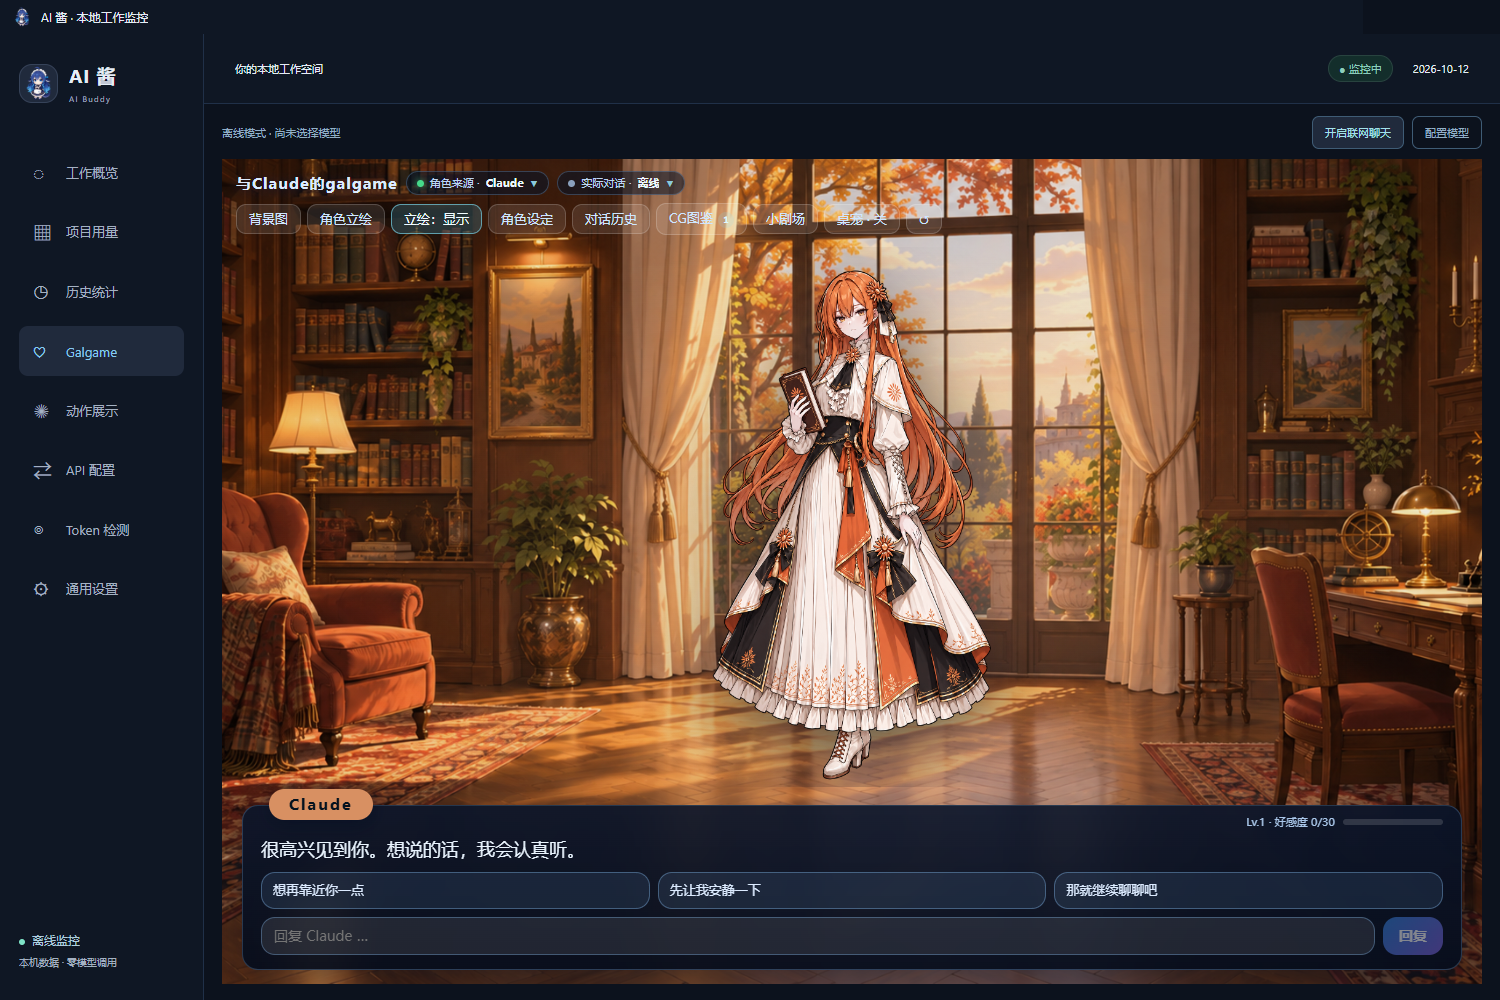
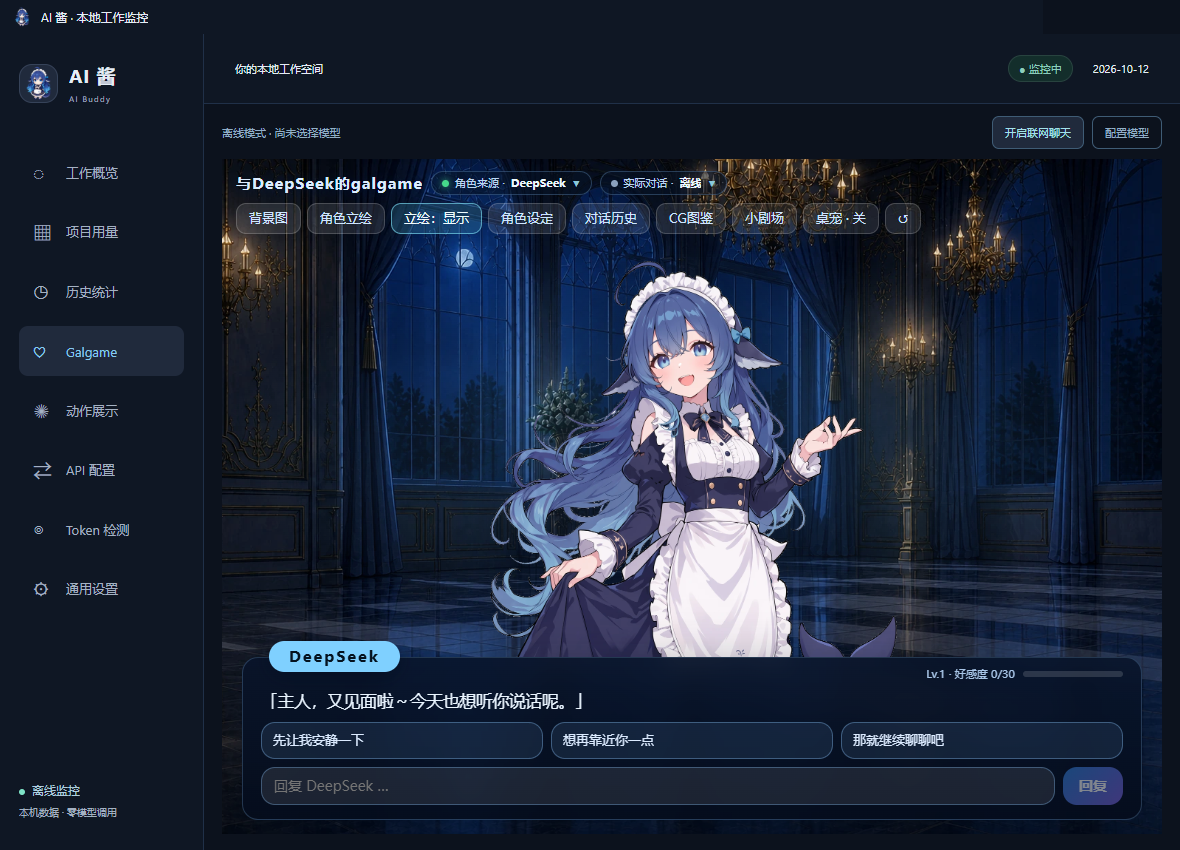
Release AI Buddy 1.7.2 with closer Galgame portraits

diff --git a/src/adapted/character-portrait.ts b/src/adapted/character-portrait.ts
@@ -3,7 +3,7 @@ import {CHARACTER_BOUNDS} from '../character-bounds.generated.mjs'
 
 // Fit the visible silhouette rather than the variable transparent padding.
 // Source PNGs remain untouched; a small transparent guard preserves antialiasing.
-export function CharacterPortrait({src,spriteKey,alt,className='',onError}:any){
+export function CharacterPortrait({src,spriteKey,alt,className='',align='bottom',onError}:any){
  const canvas=useRef<HTMLCanvasElement>(null),bounds=CHARACTER_BOUNDS[spriteKey]
  useLayoutEffect(()=>{
   if(!bounds||!canvas.current)return
@@ -16,14 +16,14 @@ export function CharacterPortrait({src,spriteKey,alt,className='',onError}:any){
    node.width=Math.max(1,Math.round(box.width*dpr));node.height=Math.max(1,Math.round(box.height*dpr))
    const [l,t,r,b]=bounds.visibleBounds,guard=5,x=Math.max(0,l-guard),y=Math.max(0,t-guard)
    const w=Math.min(image.width,r+guard)-x,h=Math.min(image.height,b+guard)-y
-   const scale=Math.min(node.width/w,node.height/h)*.97,dx=(node.width-w*scale)/2,dy=node.height-h*scale
+   const scale=Math.min(node.width/w,node.height/h)*.97,dx=(node.width-w*scale)/2,dy=align==='top'?0:node.height-h*scale
    const ctx=node.getContext('2d');ctx?.clearRect(0,0,node.width,node.height);ctx?.drawImage(image,x,y,w,h,dx,dy,w*scale,h*scale)
    node.dataset.ready='true';node.dataset.bounds=JSON.stringify({x:dx/dpr,y:dy/dpr,width:w*scale/dpr,height:h*scale/dpr})
   }
   image.onload=draw;image.onerror=()=>onError?.();image.src=src
   const observer=new ResizeObserver(draw);observer.observe(node)
   return()=>{closed=true;observer.disconnect();image.onload=null;image.onerror=null}
- },[src,spriteKey])
+ },[src,spriteKey,align])
  return bounds?React.createElement('canvas',{key:src,ref:canvas,role:'img','aria-label':alt,className:className+' whg-character-canvas','data-sprite':spriteKey,style:{width:'100%',height:'100%',display:'block'}}):React.createElement('img',{key:src,src,alt,className,draggable:false,onError})
 }
 

diff --git a/src/dashboard.css b/src/dashboard.css
@@ -92,6 +92,12 @@
 .galgame-page .whg-root-tab .whg-stage{display:flex;padding:6px;overflow:hidden}
 .galgame-page .whg-root-tab .whg-sprite-wrap{height:100%;width:100%;margin:0;transform:none}
 .galgame-page .whg-root-tab .whg-sprite{height:100%;width:100%;max-width:100%;object-fit:contain;object-position:center bottom}
+/* Single-character close framing: keep the head below the toolbar and let the
+   lower body continue behind the dialogue. The picker and ensemble keep their
+   full-figure framing. Width still constrains wide/custom silhouettes. */
+.galgame-page .whg-root-tab .whg-stage:has(>.whg-sprite-wrap){overflow:clip;overflow-clip-margin:24px;z-index:1}
+.galgame-page .whg-root-tab .whg-stage>.whg-sprite-wrap{position:absolute;top:12px;left:12px;width:calc(100% - 24px);height:190%;max-width:none;align-items:flex-start;pointer-events:none}
+.galgame-page .whg-root-tab .whg-sprite-wrap>.whg-sprite{object-position:center top}
 .galgame-page .whg-root-tab .whg-cast{padding:6px 2% 22px;gap:2%}
 .galgame-page .whg-root-tab .whg-cast-slot,.galgame-page .whg-root-tab .whg-cast-slot[data-lead=true]{display:flex;flex:1;min-width:0;max-width:32%;height:100%;transform:none}
 .galgame-page .whg-root-tab .whg-cast-slot[data-overflow=true]{display:flex}

diff --git a/src/adapted/galgame-client.ts b/src/adapted/galgame-client.ts
@@ -3040,6 +3040,7 @@ function App(props: { useSessions: any; variant?: string; sessionId?: string; hi
         className: 'whg-sprite' + (s.portrait ? ' whg-sprite-portrait' : '') + (customSprite ? ' whg-sprite-custom' : ''),
         src,
         spriteKey: customSprite || emoKey ? null : s.sprite,
+        align: 'top',
         alt: s.name,
         draggable: false,
         onError: () => { setImgFail(true) },

diff --git a/docs/VALIDATION-1.7.2.md b/docs/VALIDATION-1.7.2.md
@@ -1,0 +1,36 @@
+# AI Buddy 1.7.2 · Galgame close portrait
+
+2026-10-12, Windows x64. The user's reference calls for a larger single-character portrait, with the face and upper body prominent and the lower body behind the dialogue.
+
+## Change
+
+The single-character presentation uses a top-aligned portrait box at 190% of the available stage height. Width limits preserve broad silhouettes. The stage clips the part below the dialogue boundary so feet cannot appear beneath the panel. Existing artwork is unchanged. Portrait pickers and multi-character scenes retain their full-figure framing.
+
+## Fresh verification
+
+- 212 application tests passed, zero failures.
+- Actual Electron: 900, 1180, 1600 and 1920 logical pixel widths at 100%, 125% and 150% display scale. 44 candidate cases; all eleven characters checked at 1180/100%.
+- Four baseline captures from 1.7.1 retained for comparison. Candidate captures inspected for head/face visibility, gestures, dialogue overlap and clipping. This is a technical visual review; user visual acceptance remains pending.
+- Background, portrait and character pickers: viewport containment, Escape dismissal and focus return; ordinary/Ctrl wheel leave page zoom at 1.
+- CG background auto-hide, manual show, switching between independent character backgrounds and galleries, custom portrait upload and full-image picker checked with isolated saved-image fixtures.
+- Eight existing DeepSeek expression images rendered and inspected in the actual presentation box. This checks presentation only, not a new online emotion-classification request.
+- Three-person scene including a custom portrait checked at all four widths.
+- Navigation, fifteen action entries, preference reload, branded direct startup, single instance and restart verified. No paid model or image request.
+
+## Evidence and scope
+
+`local/buddy-172/release-qa.json` records hashes and paths to the actual native UI, controls, multicast, branding and unit reports. Final passing controls report: `controls-verified/result.json`. Earlier incomplete controls runs are retained as harness-debugging records and are not passing evidence.
+
+Only three renderer sources differ from the verified 1.7.1 baseline: `character-portrait.ts`, `galgame-client.ts` and `dashboard.css`. Build changes are restricted to dashboard CSS/JS/map and version/runtime metadata. All 280 other build files, including artwork, videos, main process, monitoring worker and preload, match 1.7.1 byte for byte. Backend and desktop-pet deep verification from 1.7.1 is historical evidence, not a new full backend test.
+
+Local release requires the previous build/runtime ZIP, archive/source hash verification, restored startup, latest profile backup, post-switch settings and asset checks, animation playback and single-instance verification. The authoritative completed release receipt is recorded in `local/current-build.json`.
+
+## Completed local release
+
+Released through the original entry on 2026-10-12. Receipt: `local/releases/1.7.2-2026-10-12T17-01-33-882Z/result.json` (`ok: true`). All eighteen logical pet actions, actual gallery frame progression, repeated launch/single instance, original settings and CG hashes, and existing usage-ledger prefixes passed. The original `local/data-v003` is retained and the application is open on Galgame.
+
[1 lines of base64/hex data omitted]
+
+Two earlier release attempts are retained: one restore smoke check sampled before video frames advanced; one post-switch five-second manual action check expired and automatically rolled the application and configuration back. The verification scripts now wait for actual frame advancement with a bounded timeout and keep manual playback alive longer than that timeout. The final release passed without relaxing action identity, renderer or frame-count checks. No application backend changes were introduced for these harness fixes.
+
+The original local update did not publish to GitHub. The subsequent v1.7.2 distribution pass synchronizes package metadata, README download links, source-build version checks and independent-profile screenshots. Its source tests, portable ZIP hash verification, extracted native startup and GitHub asset digests are recorded separately; they do not represent additional paid chat or image-generation tests.

diff --git a/README.en.md b/README.en.md
@@ -1,5 +1,7 @@
 # AI Buddy · AI 酱
 
+**Current release: [v1.7.2](https://github.com/lXiaoSel1/ai-buddy/releases/tag/v1.7.2)**
+
 **A record of your AI work. A companion on your desktop.**
 
 [简体中文](README.md) · English
@@ -12,7 +14,7 @@ The Galgame engine and interface are adapted from **[JAdpp/dsh-whale-galgame](ht
 
 ## Download
 
-Download `AI-Buddy-1.7.1-Windows-x64.zip` from [Releases](https://github.com/lXiaoSel1/ai-buddy/releases), extract the complete folder to a writable location, and run **AI Buddy.vbs**. **AI Buddy.cmd** and the versioned **AI Buddy.exe** are alternative launchers.
+Download `AI-Buddy-1.7.2-Windows-x64.zip` from [Releases](https://github.com/lXiaoSel1/ai-buddy/releases), extract the complete folder to a writable location, and run **AI Buddy.vbs**. **AI Buddy.cmd** and the versioned **AI Buddy.exe** are alternative launchers.
 
 - Windows 10/11 x64; portable ZIP, no installer in this release.
 - Electron is bundled. Node.js, Python and image-generation tools are not required to run the app.
@@ -56,6 +58,17 @@ Each character owns their levels, conversation history, background, CG gallery, 
 
 CG backgrounds automatically hide the portrait to prevent duplicate characters. Use the toolbar to show/hide it manually or return to automatic behavior. Switching characters restores that character’s background. Right-click a CG to move it to the recycle bin; undo and restore do not generate another image.
 
+### Starting Theater
+
+1. Save and activate a chat connection under **API configuration → Chat API**.
+2. Open **Galgame** and enable online chat. This switch resets to off after restart.
+3. Click **Theater**, enter an optional topic, then click **Start play**. An explicit topic is useful when no recent activity is available; the local app uses available activity rather than automatically browsing the web.
+4. Advance with **Continue**, then select a choice or type a reply when prompted. Past scenes are under **Dialogue history → Theater**.
+
+Theater calls the selected chat model. Wait for active chat to finish or close the current scene before starting another. The dialog shows an active cooldown; this version does not expose a cooldown setting. CG group pictures use the separate image connection and are not required to start a scene.
+
+Version 1.7.2 gives single-character scenes a closer portrait framing: the face and upper body are larger, with the lower body behind the dialogue. Multi-character scenes and portrait pickers retain full-figure views.
+
 ![Galgame](docs/screenshots/galgame-en.png)
 ![CG background without a duplicate portrait](docs/screenshots/cg-background.png)
 
@@ -93,7 +106,7 @@ Local monitoring is read-only, sends no model requests and does not modify the m
 
 See [BUILD.md](docs/BUILD.md) for source builds. Node.js 24 is needed for development; runtime artwork and animations can be extracted from the matching release ZIP.
 
-See the [1.7.1 validation record](docs/VALIDATION-1.7.1.md) for tested behavior and review boundaries.
+See the [1.7.2 validation record](docs/VALIDATION-1.7.2.md) for the portrait and release checks. Original WebM and theme verification remains in the [1.7.1 record](docs/VALIDATION-1.7.1.md).
 
 Special thanks to [JAdpp/dsh-whale-galgame](https://github.com/JAdpp/dsh-whale-galgame), [dsh-deep-whale](https://github.com/Small-tailqwq/dsh-deep-whale), [dsh-deepseek-girl-pet](https://github.com/f0909172434/dsh-deepseek-girl-pet), [上善](https://www.pixiv.net/users/62155430), [ZipZipPipe](https://www.pixiv.net/users/18604994) and the [AI gijinka gallery](https://genderswapai.com/zh-CN/ai-gijinka/gallery). Additional thanks to [ccusage](https://github.com/ccusage/ccusage), [CodexBar](https://github.com/steipete/CodexBar), [models.dev](https://models.dev), [Electron](https://www.electronjs.org/), [React](https://react.dev/), [esbuild](https://esbuild.github.io/) and [RIFE](https://github.com/hzwer/ECCV2022-RIFE).
 

diff --git a/docs/BUILD.md b/docs/BUILD.md
@@ -10,4 +10,6 @@ Development requires Windows x64 and Node.js 24. The portable app does not.
 
 Do not publish `local/`, generated `builds/`, credentials, user CGs or logs. The resource ZIP is a release asset rather than Git history to keep generated media outside Git history. Upstream/runtime licensing remains in the distributed files.
 
-Source-build output is under `builds/development`. Tests use temporary data and mock services; no paid model request is needed. The formal 1.7.1 binary additionally has branded Windows resources and a release manifest. Source tests do not certify native integration or visual acceptance.
+Source-build output is under `builds/development`. Tests use temporary data and mock services; no paid model request is needed. The formal 1.7.2 binary additionally has branded Windows resources and a release manifest. Source tests do not certify native integration or visual acceptance.
+
+Before a release, update package.json, both package-lock version fields, the current-release links and ZIP names in both READMEs, and the formal version in this guide. Run `npm run check:version`; the source build runs this same consistency check. Historical validation documents and Git commit messages retain their original versions.
